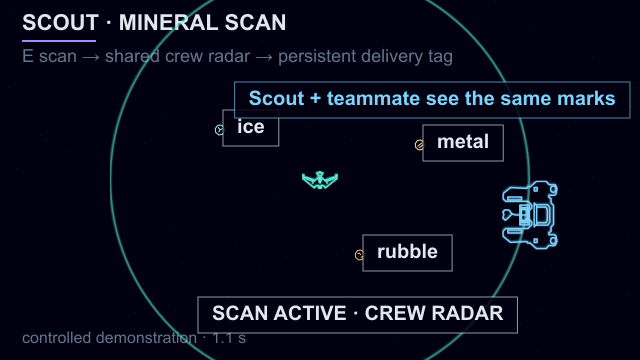
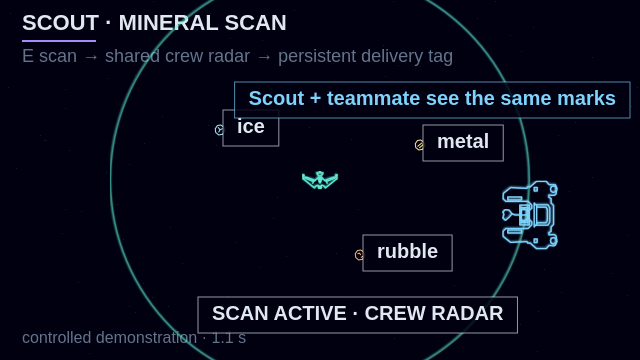
Limit Scout mineral scan to one pulse (#699)
* fix(scout): limit mineral scan to one pulse

Mineral Scan sends a single two-second radar pulse, then waits 20 seconds before the Scout can scan again.

* docs(wiki): state the single mineral-scan pulse duration

The Scout reference now says the scan is one radar pulse lasting 2 seconds, followed by the 20-second cooldown.

* fix(hud): label a full boost tank BOOST

The boost button shows BOOST when the tank is full, instead of READY.

* test(scout): wait out the mineral-scan cooldown

The semantic E control timed out at 15 seconds while 299 cooldown frames remained. Pin the 2-second pulse and 20-second cooldown, and give that browser wait the full recharge plus slack.

---------

diff --git a/tests/unit/entities/scout-scan-vfx.test.ts b/tests/unit/entities/scout-scan-vfx.test.ts
@@ -28,32 +28,34 @@ function scoutHost(): ScoutScanVisualHost {
   };
 }
 
-test('an active Scout pulse starts at the hull and reaches the farthest desktop corner', () => {
+test('one Scout pulse starts at the hull and reaches the farthest desktop corner', () => {
   const viewport = { width: 800, height: 600 };
   const start = scoutScanPulseGeometry(0, 400, 300, 24, SHIP_ABILITY.SCAN_FRAMES, viewport);
-  const midpoint = scoutScanPulseGeometry(0, 400, 300, 24, 300, viewport);
-  const edge = scoutScanPulseGeometry(0, 400, 300, 24, 241, viewport);
+  const midpoint = scoutScanPulseGeometry(0, 400, 300, 24, SHIP_ABILITY.SCAN_FRAMES / 2, viewport);
+  const edge = scoutScanPulseGeometry(0, 400, 300, 24, 1, viewport);
 
+  expect(SHIP_ABILITY.SCAN_PULSES).toBe(1);
   expect(start?.radius).toBe(24);
   expect(start?.alpha).toBeGreaterThan(0);
   expect(midpoint?.radius).toBeGreaterThan(start?.radius ?? 0);
   expect(midpoint?.alpha).toBeCloseTo(start?.alpha ?? 0);
   expect(edge?.radius).toBeGreaterThan(Math.hypot(400, 300) * 1.08);
   expect(edge?.alpha).toBeGreaterThan(0);
-  expect(scoutScanPulseGeometry(0, 400, 300, 24, 240, viewport)).toBeUndefined();
-  expect(scoutScanPulseGeometry(1, 400, 300, 24, 240, viewport)?.radius).toBeCloseTo(24);
+  expect(scoutScanPulseGeometry(0, 400, 300, 24, 0, viewport)).toBeUndefined();
+  expect(
+    scoutScanPulseGeometry(1, 400, 300, 24, SHIP_ABILITY.SCAN_FRAMES, viewport)
+  ).toBeUndefined();
 });
 
-test('the final mobile pulse uses viewport pixels and fades without leaving a later pulse', () => {
+test('the single mobile pulse uses viewport pixels and fades when the scan ends', () => {
   const viewport = { width: 390, height: 844 };
-  const edge = scoutScanPulseGeometry(2, 195, 422, 24, 1, viewport);
+  const edge = scoutScanPulseGeometry(0, 195, 422, 24, 1, viewport);
 
   expect(edge?.radius).toBeGreaterThan(Math.hypot(195, 422) * 1.08);
   expect(edge?.alpha).toBeGreaterThan(0);
   expect(edge?.alpha).toBeLessThan(0.02);
   expect(scoutScanPulseGeometry(0, 195, 422, 24, 0, viewport)).toBeUndefined();
-  expect(scoutScanPulseGeometry(1, 195, 422, 24, 0, viewport)).toBeUndefined();
-  expect(scoutScanPulseGeometry(2, 195, 422, 24, 0, viewport)).toBeUndefined();
+  expect(scoutScanPulseGeometry(1, 195, 422, 24, 1, viewport)).toBeUndefined();
 });
 
 test('only a living active Scout paints the cyan sweep', () => {

diff --git a/src/wiki/gameReference.ts b/src/wiki/gameReference.ts
@@ -103,7 +103,7 @@ export const gameReference: Record<string, { heading: string; paragraphs: string
     {
       heading: 'Ability and exploration values',
       paragraphs: [
-        `With Mineral Scan equipped, E runs a ${seconds(SHIP_ABILITY.SCAN_FRAMES)} mineral scan within ${SHIP_ABILITY.SCAN_RANGE} units. While active, a thin cyan radar sweep pulses from the Scout to the viewport edge; this visual cue does not expand the scan range. Spiders inside that range flee and cannot bite while the scan is active. The scan cooldown is ${seconds(SHIP_ABILITY.COOLDOWN_FRAMES.scout)}; each identified rock keeps its classification and records the Scout player ID for a later furnace delivery.`,
+        `With Mineral Scan equipped, E runs one radar pulse lasting ${seconds(SHIP_ABILITY.SCAN_FRAMES)} within ${SHIP_ABILITY.SCAN_RANGE} units. That thin cyan sweep expands from the Scout to the viewport edge; this visual cue does not expand the scan range. Spiders inside that range flee and cannot bite while the pulse is active. The scan cooldown is ${seconds(SHIP_ABILITY.COOLDOWN_FRAMES.scout)}; each identified rock keeps its classification and records the Scout player ID for a later furnace delivery.`,
         `Survey Probe: launch range ${SURVEY_PROBE.LAUNCH_RANGE} units; beacon scan radius ${SURVEY_PROBE.RANGE} units every ${SURVEY_PROBE.PULSE_MS / 1000} seconds; battery ${SURVEY_PROBE.LIFETIME_MS / 60000} minutes with a warning during the last ${SURVEY_PROBE.WARNING_MS / 1000} seconds. Health: ${SURVEY_PROBE.MAX_HEALTH}. Maximum ${SURVEY_PROBE.MAX_PER_OWNER} active probes per Scout; a successful extra attachment replaces the oldest. Attachment cooldown: ${seconds(SURVEY_PROBE.COOLDOWN_FRAMES)}.`,
         `Passive shared exploration reaches ${EXPLORATION_RANGE.scout} world units for Scout and ${EXPLORATION_RANGE.hauler} for Hauler; revealed cells persist for the match.`,
       ],

diff --git a/tests/integration/browser/sanity/wave2-touch-controls.test.ts b/tests/integration/browser/sanity/wave2-touch-controls.test.ts
@@ -2,6 +2,8 @@ import { existsSync } from 'node:fs';
 import type { CDPSession } from 'playwright';
 import { expect, test } from 'vitest';
 
+import { GAME } from '../../../../src/constants';
+import { SHIP_ABILITY } from '../../../../src/entities/ship/shipKits';
 import { watchBrowserDiagnostics } from '../../utils/browser-diagnostics';
 import { createBrowserScenarioHooks } from '../../utils/browser-scenario-setup';
 import { GameInteractions } from '../../utils/game-interactions';
@@ -566,8 +568,13 @@ test(
       .toBeGreaterThan(0);
     // Wait for the real cooldown. Resetting only the client can make the next
     // snapshot look like a successful second activation even if no click is sent.
+    // Mineral Scan's cooldown is longer than the default poll, so size the wait
+    // from the live duration and leave slack for a slightly slow browser loop.
+    const scoutCooldownMs = (SHIP_ABILITY.COOLDOWN_FRAMES.scout / GAME.FPS) * 1000;
     await expect
-      .poll(async () => (await readLocalTouchState(page)).abilityCooldownFrames, { timeout: 15000 })
+      .poll(async () => (await readLocalTouchState(page)).abilityCooldownFrames, {
+        timeout: scoutCooldownMs + 8000,
+      })
       .toBe(0);
     await ability.evaluate((element) => (element as HTMLButtonElement).click());
     await expect
@@ -578,5 +585,5 @@ test(
     expect(consoleState.errors).toEqual([]);
     expect(consoleState.warnings).toEqual([]);
   },
-  TestConfig.DEFAULT_TIMEOUT
+  TestConfig.DEFAULT_TIMEOUT * 2
 );

diff --git a/tests/unit/entities/scout-identifies-nearby-minerals.test.ts b/tests/unit/entities/scout-identifies-nearby-minerals.test.ts
@@ -1,4 +1,5 @@
 import { expect, test } from 'vitest';
+import { GAME } from '../../../src/constants';
 import { Ship } from '../../../src/entities/ship/Ship';
 import { activateAbilityOnHost, tickAbilityHost } from '../../../src/entities/ship/shipAbilities';
 import { SHIP_ABILITY } from '../../../src/entities/ship/shipKits';
@@ -15,6 +16,10 @@ test('Scout scan identifies nearby minerals then expires without changing motion
   };
   expect(scannedMaterial(ship, rock)).toBeUndefined();
   expect(activateAbilityOnHost(ship).activated).toBe(true);
+  expect(SHIP_ABILITY.SCAN_FRAMES).toBe(2 * GAME.FPS);
+  expect(SHIP_ABILITY.COOLDOWN_FRAMES.scout).toBe(20 * GAME.FPS);
+  expect(ship.abilityActiveFrames).toBe(2 * GAME.FPS);
+  expect(ship.abilityCooldownFrames).toBe(20 * GAME.FPS);
   expect(ship.velocity).toEqual({ x: 1, y: 0.25 });
   expect(scannedMaterial(ship, rock)).toBe('metal');
   expect(
@@ -25,6 +30,7 @@ test('Scout scan identifies nearby minerals then expires without changing motion
     tickAbilityHost(ship);
   }
   expect(scannedMaterial(ship, rock)).toBeUndefined();
+  expect(ship.abilityCooldownFrames).toBe(20 * GAME.FPS - 2 * GAME.FPS);
   expect(activateAbilityOnHost(ship).activated).toBe(false);
   while (ship.abilityCooldownFrames > 0) {
     tickAbilityHost(ship);

diff --git a/src/wiki/media.ts b/src/wiki/media.ts
@@ -12,9 +12,9 @@ interface WikiMediaEntry {
 export const media: Record<string, WikiMediaEntry> = {
   scout: {
     title: 'Scout shared mineral scan',
-    alt: 'A Scout activates a range-limited scan while a teammate radar receives ice, metal, and rubble marks for the same rocks.',
+    alt: 'A Scout sends one mineral-scan pulse. A teammate radar receives ice, metal, and rubble marks, and those marks remain after the pulse ends.',
     caption:
-      'Press E to classify nearby rocks on every teammate radar. The scan also records the Scout as a contributor for a later furnace delivery.',
+      'Press E to send one pulse that classifies nearby rocks on every teammate radar. The tag stays after the pulse ends and records the Scout for a later furnace delivery.',
     sources: [
       'src/entities/ship/shipAbilities.ts',
       'src/entities/ship/surveyScan.ts',

diff --git a/src/entities/ship/shipRenderer.ts b/src/entities/ship/shipRenderer.ts
@@ -824,7 +824,7 @@ export function drawHaulerHarpoonVfx(
   ctx.restore();
 }
 
-const SCOUT_SCAN_PULSE_COUNT = 3;
+const SCOUT_SCAN_PULSE_COUNT = SHIP_ABILITY.SCAN_PULSES;
 const SCOUT_SCAN_PULSE_FRAMES = SHIP_ABILITY.SCAN_FRAMES / SCOUT_SCAN_PULSE_COUNT;
 const SCOUT_SCAN_EDGE_OVERSHOOT = 1.1;
 const SCOUT_SCAN_FADE_START = 0.75;
@@ -842,7 +842,7 @@ interface ScoutScanPulse {
   readonly alpha: number;
 }
 
-/** One of three expanding radar pulses, measured in viewport pixels. */
+/** The single expanding radar pulse, measured in viewport pixels. */
 export function scoutScanPulseGeometry(
   pulseIndex: number,
   screenX: number,

diff --git a/src/entities/ship/shipKits.ts b/src/entities/ship/shipKits.ts
@@ -46,10 +46,14 @@ export const SHIP_ABILITY = {
   TAP_EXTRACT_FRAMES: 90,
   TAP_EXTRACT_BURSTS: 4,
   SCAN_RANGE: 1200,
-  SCAN_FRAMES: 6 * GAME.FPS,
+  /** Mineral Scan fires this many radar pulses, then ends. */
+  SCAN_PULSES: 1,
+  /** Active classification window: one pulse at the previous per-pulse speed. */
+  SCAN_FRAMES: 2 * GAME.FPS,
   ASTEROID_DAMAGE_MULTIPLIER: 2,
   COOLDOWN_FRAMES: {
-    scout: 10 * GAME.FPS,
+    /** Time from activation until Mineral Scan can fire again. */
+    scout: 20 * GAME.FPS,
     hauler: 180,
   },
 } as const;

diff --git a/tests/integration/browser/sanity/boost-button-drains-and-refills.test.ts b/tests/integration/browser/sanity/boost-button-drains-and-refills.test.ts
@@ -31,6 +31,10 @@ for (const viewport of [
     const button = page.locator('#touch-boost');
     await button.waitFor({ state: 'visible' });
     await expect.poll(() => button.isEnabled()).toBe(true);
+    await expect.poll(() => button.textContent()).toBe('BOOST');
+    await page.screenshot({
+      path: screenshotManager.getScreenshotPath(`boost-ready-${viewport.name}.png`),
+    });
     const activate = () => (viewport.touch ? button.tap() : button.click());
     await activate();
     await page.waitForFunction(() => {

diff --git a/tests/unit/ui/touchChrome.test.ts b/tests/unit/ui/touchChrome.test.ts
@@ -111,4 +111,10 @@ test('boost chrome exposes active drain, empty tank, and interruptible recharge 
   expect(boost?.getAttribute('aria-disabled')).toBe('false');
   expect(boost?.disabled).toBe(false);
   expect(boost?.dataset['boostPhase']).toBe('idle');
+
+  player.ship.boost = { phase: 'idle', charge: 1 };
+  tickTouchControls(player);
+  expect(boost?.textContent).toBe('BOOST');
+  expect(boost?.getAttribute('aria-label')).toBe('Start boost, fully charged');
+  expect(boost?.disabled).toBe(false);
 });

diff --git a/src/input/touchControls.ts b/src/input/touchControls.ts
@@ -314,7 +314,7 @@ function syncBoostChrome(player: Player): void {
   }
   lastBoostChromeKey = key;
   const ready = state.phase === 'idle' && charge >= 1;
-  let text = ready ? 'READY' : `RECHARGING ${percent}%`;
+  let text = ready ? 'BOOST' : `RECHARGING ${percent}%`;
   let label = active
     ? `Stop boost, ${percent}% charge remaining`
     : ready

diff --git a/docs/wiki-coverage.md b/docs/wiki-coverage.md
@@ -10,7 +10,7 @@ are also recorded by article ID in `src/wiki/articleSources.json`. Editorial tex
 | --- | --- | --- |
 | field-manual | Start here | Arena orientation, two kits, starting a life, saved score, brief-disconnect return |
 | controls | Start here | Automatic thrust, shared cruise speed, Boost toggle, capped keyboard/mouse/touch steering, heading cue, hull dead zone, playfield tap-to-fire, Inventory button on desktop and touch, satellite-pickup label pointing at Inventory, Town Square store, and map/schematic/store hold with blink on return |
-| scout | Ships | Stats scorecard, shared cruise, stronger Boost, passive exploration reveal, shared active radar mineral scan, scan spider repulsion, persistent named furnaces paid with personal score, scattered furnace lots, right-angle fire trails only after a furnace is lit, escape construction and living spider retreat, moving probe beacons, and delivery tags |
+| scout | Ships | Stats scorecard, shared cruise, stronger Boost, passive exploration reveal, one-pulse shared radar mineral scan with a longer recharge, scan spider repulsion, persistent named furnaces paid with personal score, scattered furnace lots, right-angle fire trails only after a furnace is lit, escape construction and living spider retreat, moving probe beacons, and delivery tags |
 | hauler | Ships | Stats scorecard, ~2× Scout hull, shared cruise, weaker Boost, schematic utility slot, Resource Tap extract, self-guided Boost Coupling, momentum-preserving tow cable, cargo collision break, crew-scale colossal tows and couplings, furnace delivery with a red shatter and smoke poof, a right-angle fire trail only after the furnace is lit, and double metal mining damage |
 | loot-growth | Systems | Loot mass and health (fixed kit hull size), Tap canister extract, shoot-a-drop blast |
 | asteroids | Arena | Materials, health, score, rubble fragments, cooperative splits, rare colossal deposits, reflection, armed coupling and furnace-guided powered flight |

diff --git a/content/wiki/scout.md b/content/wiki/scout.md
@@ -15,7 +15,7 @@ media:
 
 ## Mineral scan
 
-Scout starts with Mineral Scan and turns faster and boosts harder than Hauler. Select Mineral Scan in Inventory, then press E or Scan to share nearby mineral classification and earn banked credit when ore-bearing rocks are delivered. Active scans also repel spiders within range and stop their bites.
+Scout starts with Mineral Scan and turns faster and boosts harder than Hauler. Select Mineral Scan in Inventory, then press E or Scan to send one pulse that shares nearby mineral classification and earns banked credit when ore-bearing rocks are delivered. That pulse also repels spiders in range, then the scan must recharge before it can fire again.
 
 ## Survey probe
 
